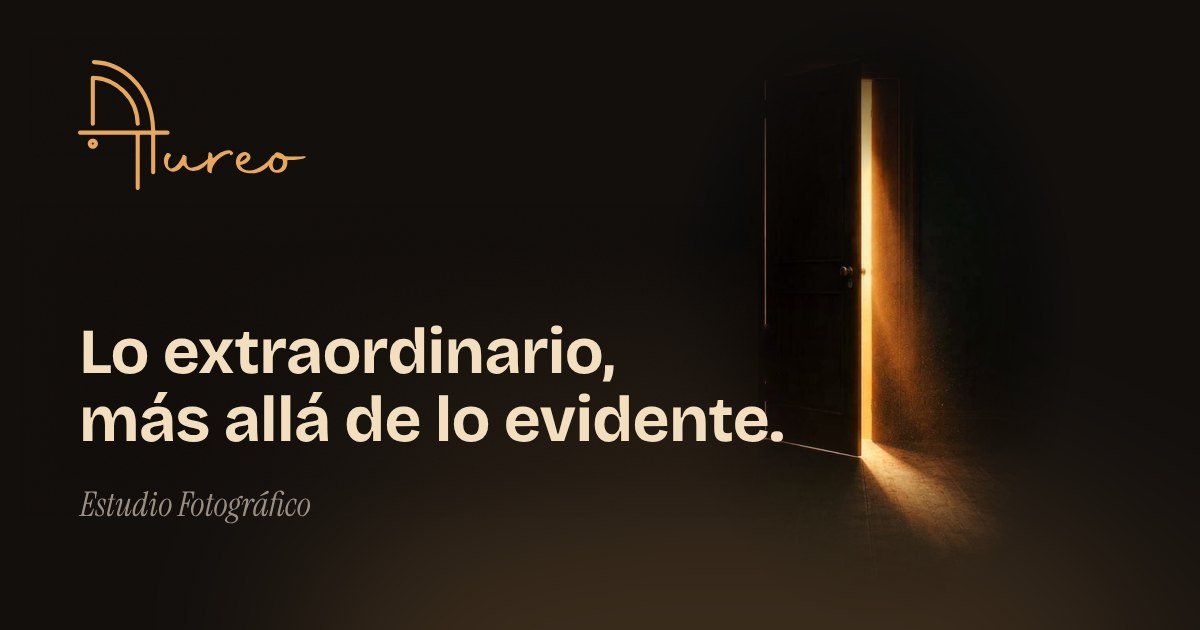
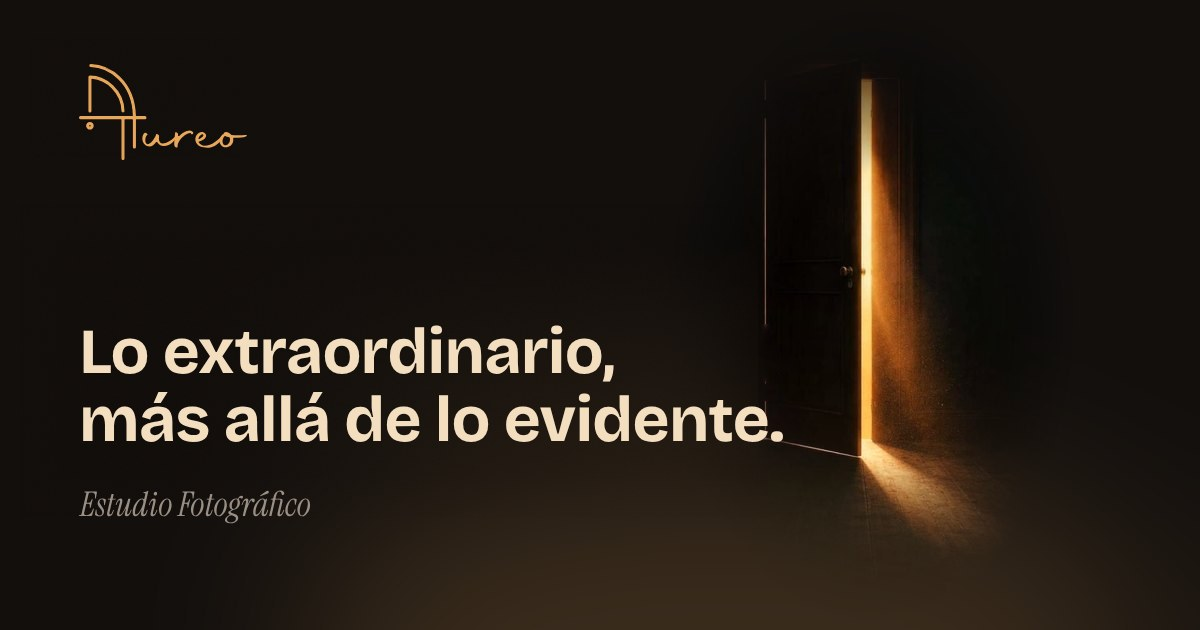
Make the logotype smaller in the navbar and OG image (#11)
- Navigation and mobile menu: 48 px tall on mobile, 64 px on desktop
  (was 64 and 88); the footer keeps its size
- Open Graph image: logotype 96 px tall (was 130)

Claude-Session: https://claude.ai/code/session_013SFx2cV7kBRcZLTBZEKYRE

Changed region(s): [[0.0617, 0.0905, 0.2467, 0.3016]]

diff --git a/src/components/Layout.tsx b/src/components/Layout.tsx
@@ -14,7 +14,7 @@ const YEAR = new Date().getFullYear();
 /** Áureo logotype linking to the home page. */
 export const HomeLogo = ({ onClick, className }: { onClick?: () => void; className?: string }) => (
   <Link viewTransition to='/' onClick={onClick} aria-label='Áureo, inicio' className='inline-flex'>
-    <Logotype className={cn('h-16 w-auto md:h-[5.5rem]', className)} />
+    <Logotype className={cn('h-12 w-auto md:h-16', className)} />
   </Link>
 );
 

diff --git a/README.md b/README.md
@@ -56,7 +56,7 @@ Approved brand marks (November 2026). Sources in `public/`, React components in 
 | Mark | File | Use |
 |---|---|---|
 | Symbol (`Logo`) | `public/logo.svg` | The "Á" drawn as a doorway with light coming through. Loader and small spaces. |
-| Logotype (`Logotype`) | `public/logotipo.svg` | The symbol's lines as the "Á" + "ureo" in script, in one color (no doorway light). Navigation (64–88 px tall), footer, link preview. |
+| Logotype (`Logotype`) | `public/logotipo.svg` | The symbol's lines as the "Á" + "ureo" in script, in one color (no doorway light). Navigation (48 px tall on mobile, 64 px on desktop), footer, link preview. |
 | Icon | `public/favicon.svg` | Amber symbol lines on a shadow (#120F0D) rounded square. Favicon and the PNG app icons. |
 | Watermark (`Watermark`) | `public/watermark.svg` | Single-line camera drawing, for the studio's own photographs (not used on the provisional moodboard photos). |
 
